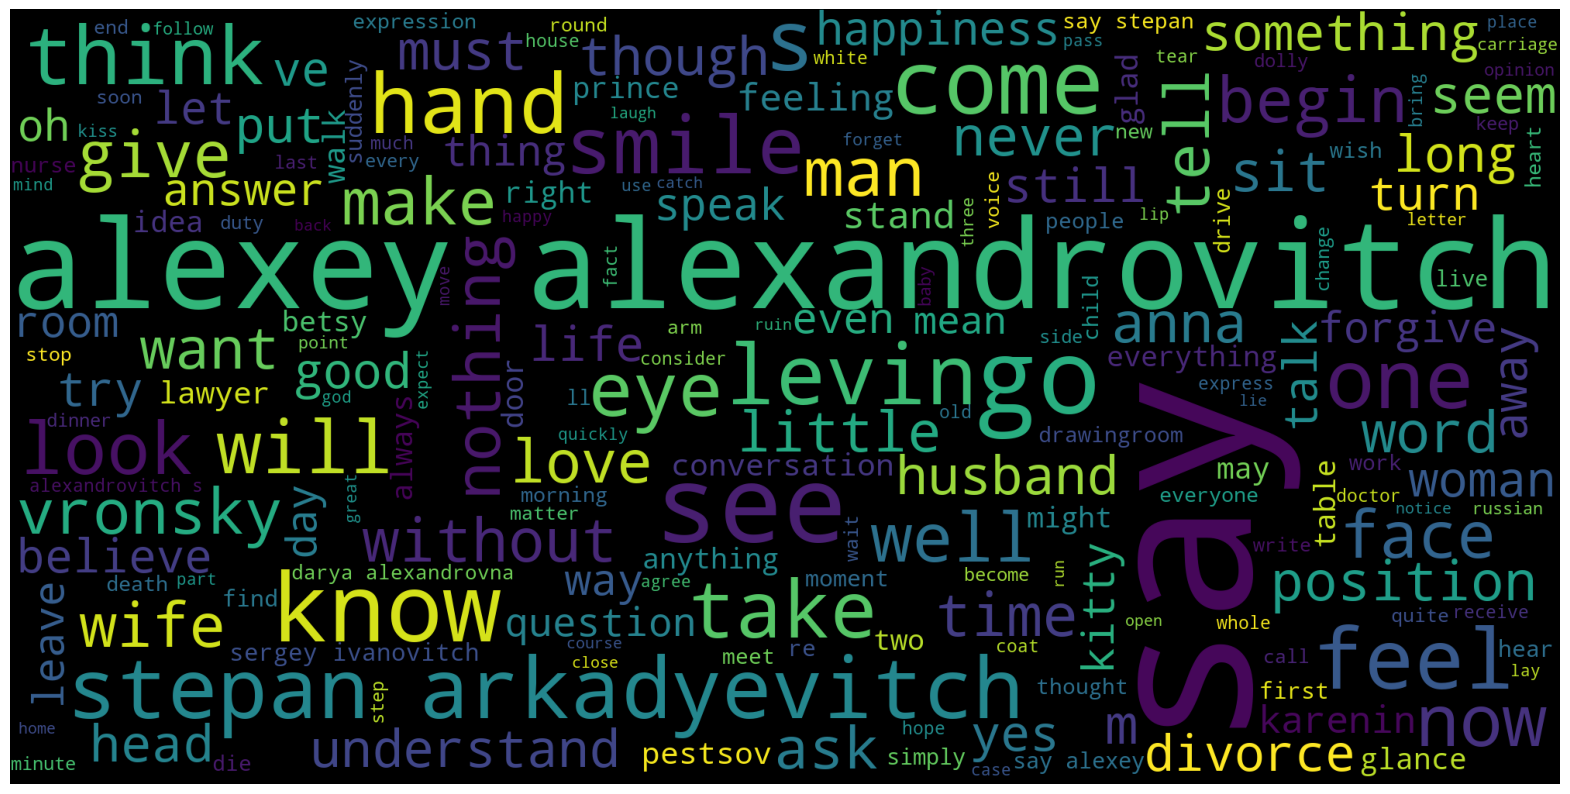
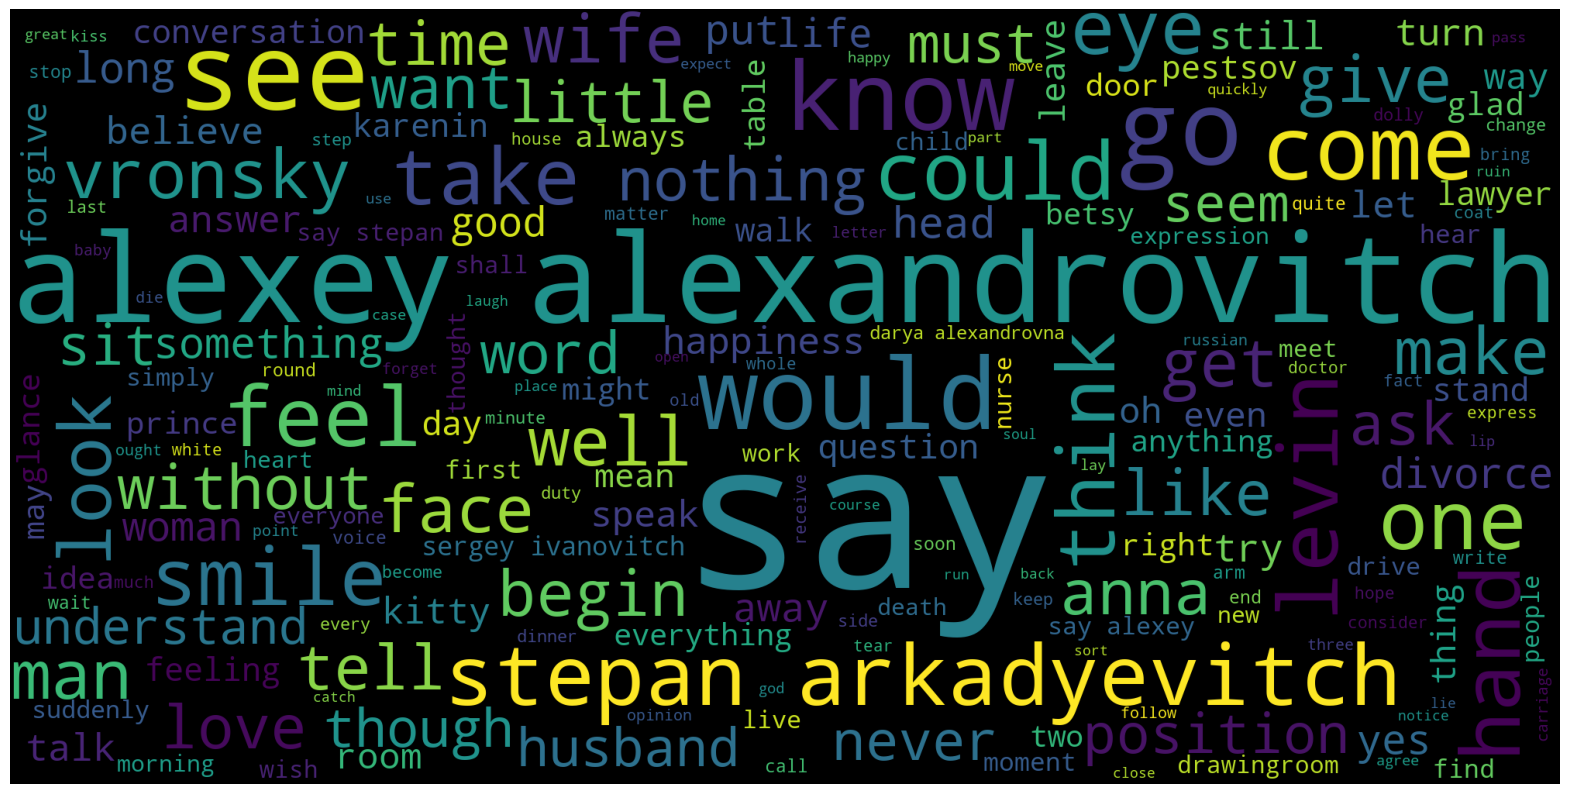
implemented stopwords for wordcloud + some tests for more elaborate sentiment analysis

diff --git a/sentiment analysis/nltk-sia/sentiment_analysis_nltk-sia.py b/sentiment analysis/nltk-sia/sentiment_analysis_nltk-sia.py
@@ -2,31 +2,31 @@ import os
 from matplotlib import pyplot as plt
 from nltk.sentiment import SentimentIntensityAnalyzer
 
-with open(os.path.join('..', 'text', 'lemmatized', 'ak_complete_lem.txt'), 'r', encoding='utf-8') as file:
+with open(os.path.join('../..', 'text', 'lemmatized', 'ak_complete_lem.txt'), 'r', encoding='utf-8') as file:
     ak_complete_lem = file.read()
 
-with open(os.path.join('..', 'text', 'lemmatized', 'ak_p1_lem.txt'), 'r', encoding='utf-8') as file:
+with open(os.path.join('../..', 'text', 'lemmatized', 'ak_p1_lem.txt'), 'r', encoding='utf-8') as file:
     ak_p1_lem = file.read()
 
-with open(os.path.join('..', 'text', 'lemmatized', 'ak_p2_lem.txt'), 'r', encoding='utf-8') as file:
+with open(os.path.join('../..', 'text', 'lemmatized', 'ak_p2_lem.txt'), 'r', encoding='utf-8') as file:
     ak_p2_lem = file.read()
 
-with open(os.path.join('..', 'text', 'lemmatized', 'ak_p3_lem.txt'), 'r', encoding='utf-8') as file:
+with open(os.path.join('../..', 'text', 'lemmatized', 'ak_p3_lem.txt'), 'r', encoding='utf-8') as file:
     ak_p3_lem = file.read()
 
-with open(os.path.join('..', 'text', 'lemmatized', 'ak_p4_lem.txt'), 'r', encoding='utf-8') as file:
+with open(os.path.join('../..', 'text', 'lemmatized', 'ak_p4_lem.txt'), 'r', encoding='utf-8') as file:
     ak_p4_lem = file.read()
 
-with open(os.path.join('..', 'text', 'lemmatized', 'ak_p5_lem.txt'), 'r', encoding='utf-8') as file:
+with open(os.path.join('../..', 'text', 'lemmatized', 'ak_p5_lem.txt'), 'r', encoding='utf-8') as file:
     ak_p5_lem = file.read()
 
-with open(os.path.join('..', 'text', 'lemmatized', 'ak_p6_lem.txt'), 'r', encoding='utf-8') as file:
+with open(os.path.join('../..', 'text', 'lemmatized', 'ak_p6_lem.txt'), 'r', encoding='utf-8') as file:
     ak_p6_lem = file.read()
 
-with open(os.path.join('..', 'text', 'lemmatized', 'ak_p7_lem.txt'), 'r', encoding='utf-8') as file:
+with open(os.path.join('../..', 'text', 'lemmatized', 'ak_p7_lem.txt'), 'r', encoding='utf-8') as file:
     ak_p7_lem = file.read()
 
-with open(os.path.join('..', 'text', 'lemmatized', 'ak_p8_lem.txt'), 'r', encoding='utf-8') as file:
+with open(os.path.join('../..', 'text', 'lemmatized', 'ak_p8_lem.txt'), 'r', encoding='utf-8') as file:
     ak_p8_lem = file.read()
 
 sia = SentimentIntensityAnalyzer()

diff --git a/wordcl/text_preparation.py b/wordcl/text_preparation.py
@@ -1,5 +1,8 @@
 import os
 import string
+import nltk
+from nltk.corpus import stopwords
+from nltk.tokenize import word_tokenize
 
 
 def preprocessing(input_text):
@@ -11,9 +14,8 @@ def preprocessing(input_text):
             input_text.remove(line)
         elif line.startswith('\n'):
             input_text.remove(line)
-    for line in input_text:
+    for line in input_text:                 # (messes up text if in first for loop)
         clean_lines.append(line.strip())
-    # (messes up text if in first for loop)
     clean_lines = [i.lower() for i in clean_lines]
     clean_lines2 = []
     for li in clean_lines:
@@ -25,6 +27,8 @@ def preprocessing(input_text):
     clean_lines3 = ' '.join(clean_lines2).split(' ')
     wc_str = ' '.join(clean_lines3)
     return wc_str
+
+# todo: change name of wc_str (only preprocessing, not directly related to wordcloud)
 
 
 #####
@@ -39,7 +43,7 @@ with open(os.path.join('..', 'text', 'parts', 'ak_p1.txt'), 'r', encoding='utf-8
 with open(os.path.join('..', 'text', 'parts', 'ak_p2.txt'), 'r', encoding='utf-8') as file:
     ak_p2 = file.readlines()
     ak_p2.pop(0)
-    ak_p2.pop(0)  # clean this up (necessary to cut out "chapter" -> why though?)
+    ak_p2.pop(0)  # todo: clean this up (necessary to cut out "chapter" -> why though?)
 
 with open(os.path.join('..', 'text', 'parts', 'ak_p3.txt'), 'r', encoding='utf-8') as file:
     ak_p3 = file.readlines()

diff --git a/wordcl/ak_wordcloud.py b/wordcl/ak_wordcloud.py
@@ -4,12 +4,6 @@ import matplotlib.pyplot as plt
 
 # wordcloud for preprocessed text
 
-# for root, dirs, files in os.walk(os.path.join('..', 'text', 'preprocessed')):
-#     for fname in files:
-#         with open(fname + '.txt', 'r', encoding='utf-8') as file:
-#             str(fname) = file.read()
-#
-
 with open(os.path.join('..', 'text', 'preprocessed', 'ak_complete_preprocessed.txt'), 'r', encoding='utf-8') as file:
     ak_complete = file.read()
 
@@ -37,10 +31,17 @@ with open(os.path.join('..', 'text', 'preprocessed', 'ak_p7_preprocessed.txt'), 
 with open(os.path.join('..', 'text', 'preprocessed', 'ak_p8_preprocessed.txt'), 'r', encoding='utf-8') as file:
     ak_p8 = file.read()
 
+
 # define function for wordcloud
 
 def m_wordcloud(part, filename):
-    wordcloud = WordCloud(width=2000, height=1000).generate(part)
+    # first: use stopwords list created in stopwords_extraction.py (todo: maybe remove this comment?)
+    with open('stopwords.txt', 'r') as f:
+        stopwords_pre = f.readlines()
+        stopwords = []
+        for e in stopwords_pre:
+            stopwords.append(e.strip())
+    wordcloud = WordCloud(width=2000, height=1000, stopwords=stopwords).generate(part)
     plt.figure(figsize=(20, 12))
     plt.imshow(wordcloud)
     plt.axis('off')

diff --git a/emotion detection/emotion_detection.py b/emotion detection/emotion_detection.py
@@ -1,0 +1,20 @@
+# This code is inspired by the article "Emotion Recognition using Text", written by Abhinav Kumar
+
+import pandas as pd
+import numpy as np
+import re
+from keras.preprocessing.text import Tokenizer
+from keras.preprocessing.sequence import pad_sequences
+from keras.utils import to_categorical
+from keras.models import load_model
+import urllib.request
+import zipfile
+import os
+from keras.models import Sequential
+from keras.layers import Embedding,Bidirectional,LSTM,GRU,Dense
+import nltk
+from nltk.tokenize import word_tokenize
+import warnings
+import tensorflow as tf
+nltk.download('punkt')
+warnings.filterwarnings('ignore')

diff --git a/wordcl/stopwords_extraction.py b/wordcl/stopwords_extraction.py
@@ -1,0 +1,7 @@
+# code to extract stopwords from NLTK module for use in WordCloud module
+
+from nltk.corpus import stopwords
+
+with open('stopwords.txt', 'w') as file:
+    for word in stopwords.words('english'):
+        file.write(word + '\n')

diff --git a/wordcl/to_be_deleted.py b/wordcl/to_be_deleted.py
@@ -1,0 +1,5 @@
+with open('stopwords.txt', 'r') as file:
+    stopwords = file.readlines()
+    converted_list = []
+    for e in stopwords:
+        converted_list.append(e.strip())
